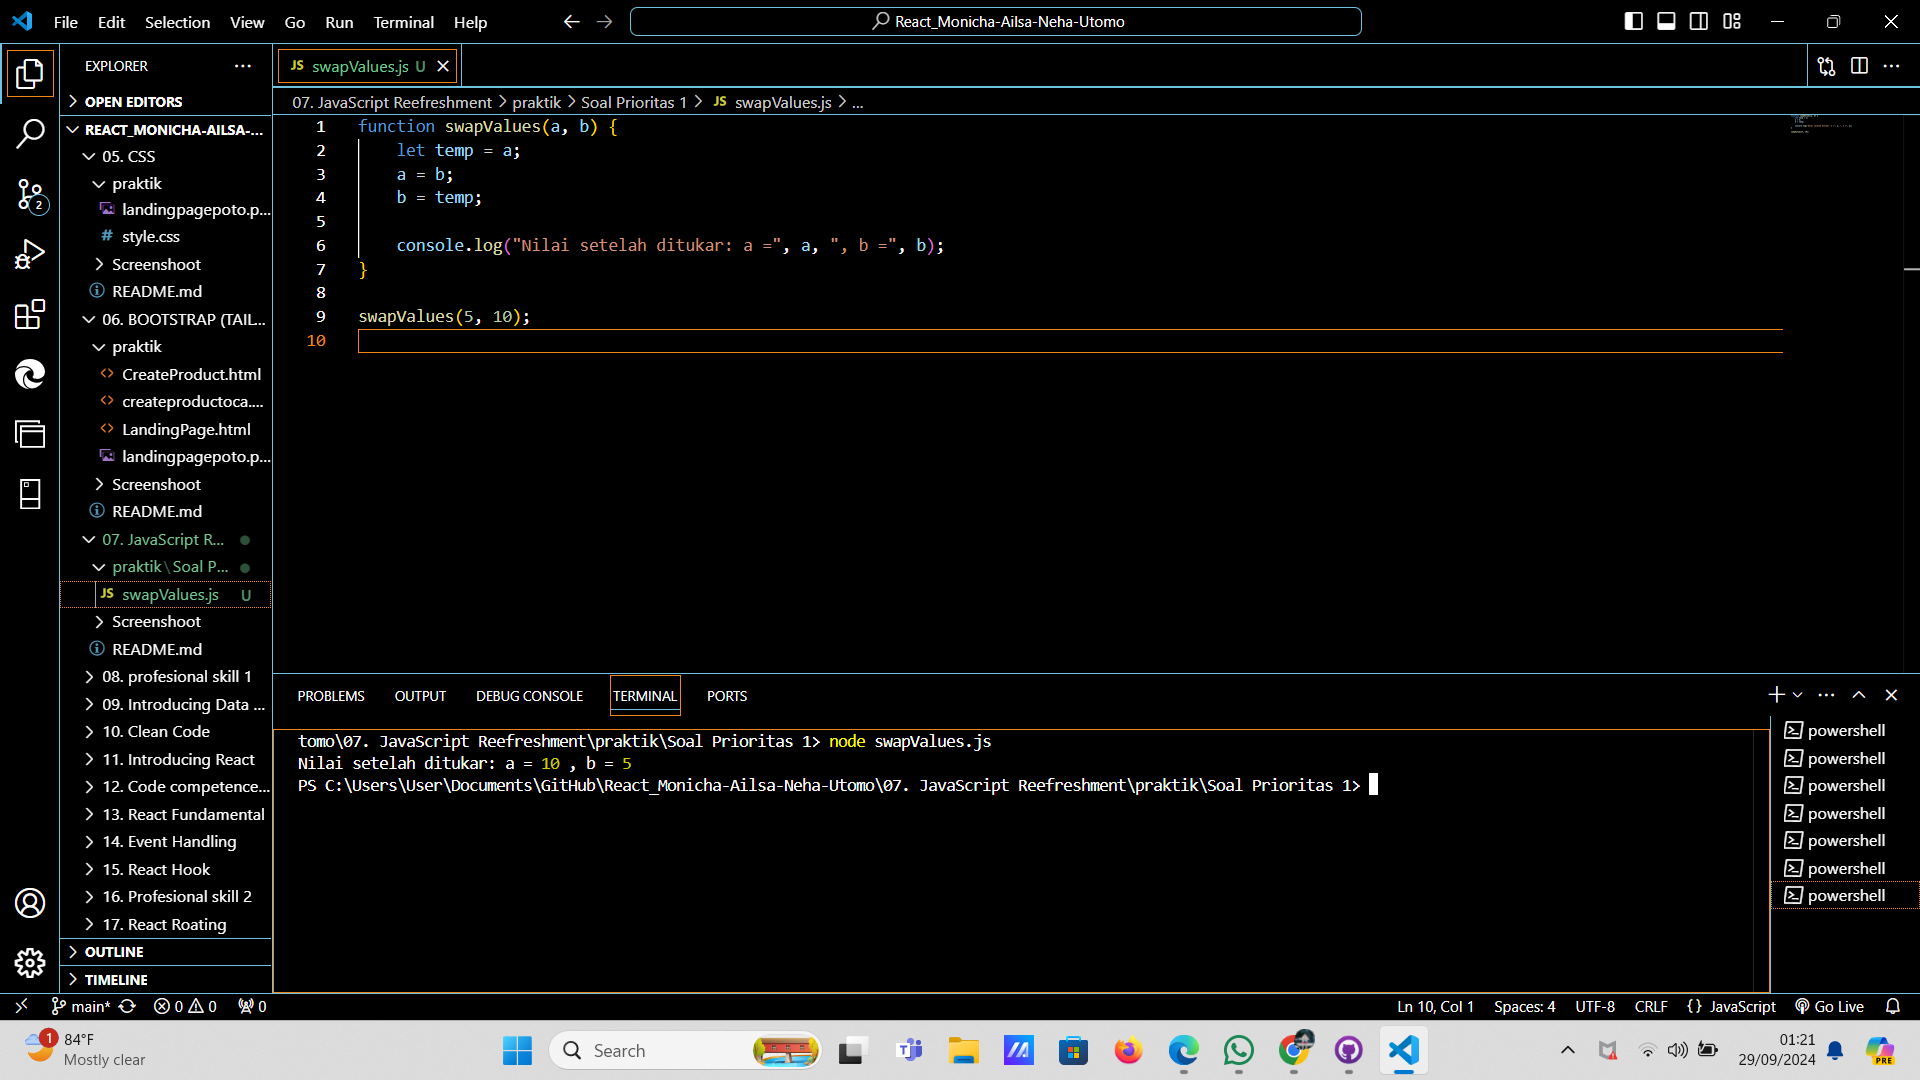
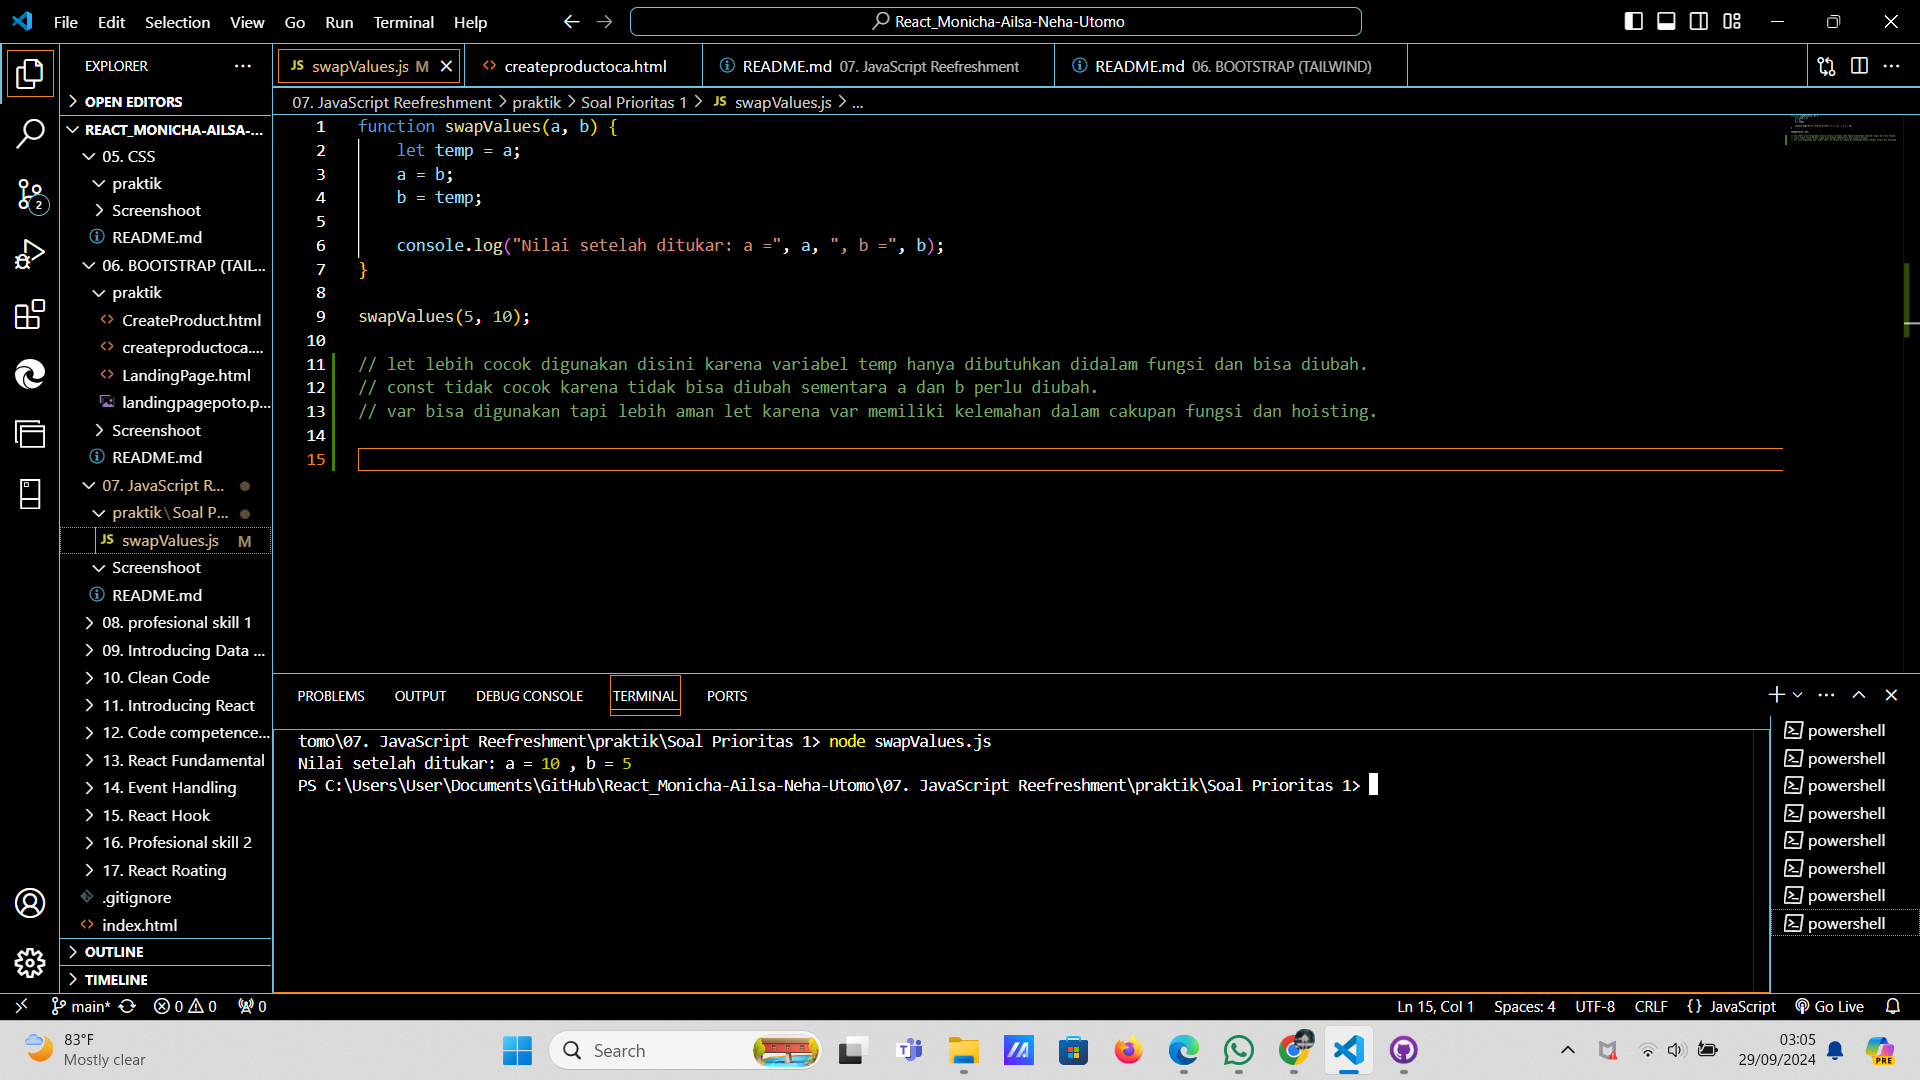
smgt

diff --git a/07. JavaScript Reefreshment/praktik/prioritas1.js b/07. JavaScript Reefreshment/praktik/prioritas1.js
@@ -1,0 +1,20 @@
+function swapValues(a, b) {
+    let temp = a;
+    a = b;
+    b = temp;
+
+ //   console.log("Nilai setelah ditukar: a =", a, ", b =", b);
+}
+
+swapValues(5, 10); 
+
+// let lebih cocok digunakan disini karena variabel temp hanya dibutuhkan didalam fungsi dan bisa diubah. 
+// const tidak cocok karena tidak bisa diubah sementara a dan b perlu diubah.
+// var bisa digunakan tapi lebih aman let karena var memiliki kelemahan dalam cakupan fungsi dan hoisting.
+
+
+const reverseFirstTwo = ([a, b]) => {
+    return [b, a];
+}
+
+console.log(reverseFirstTwo(['oca', 'rere', 'jemi'])); 
